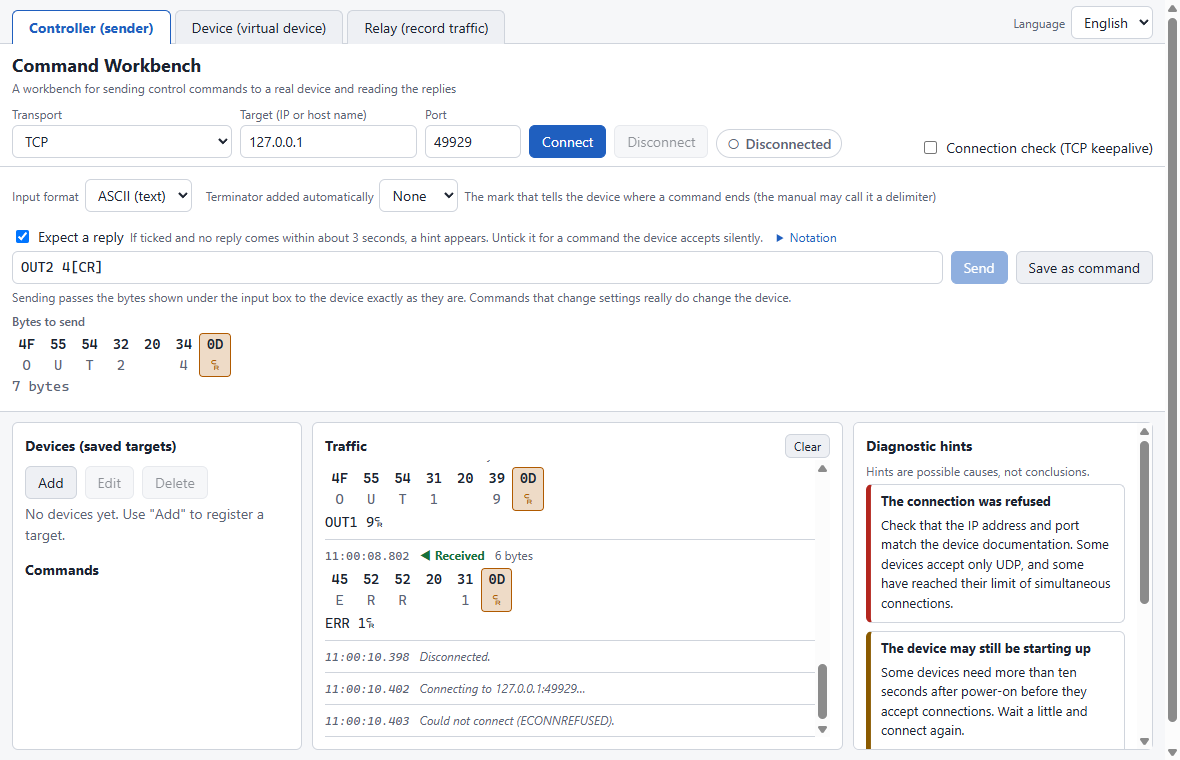
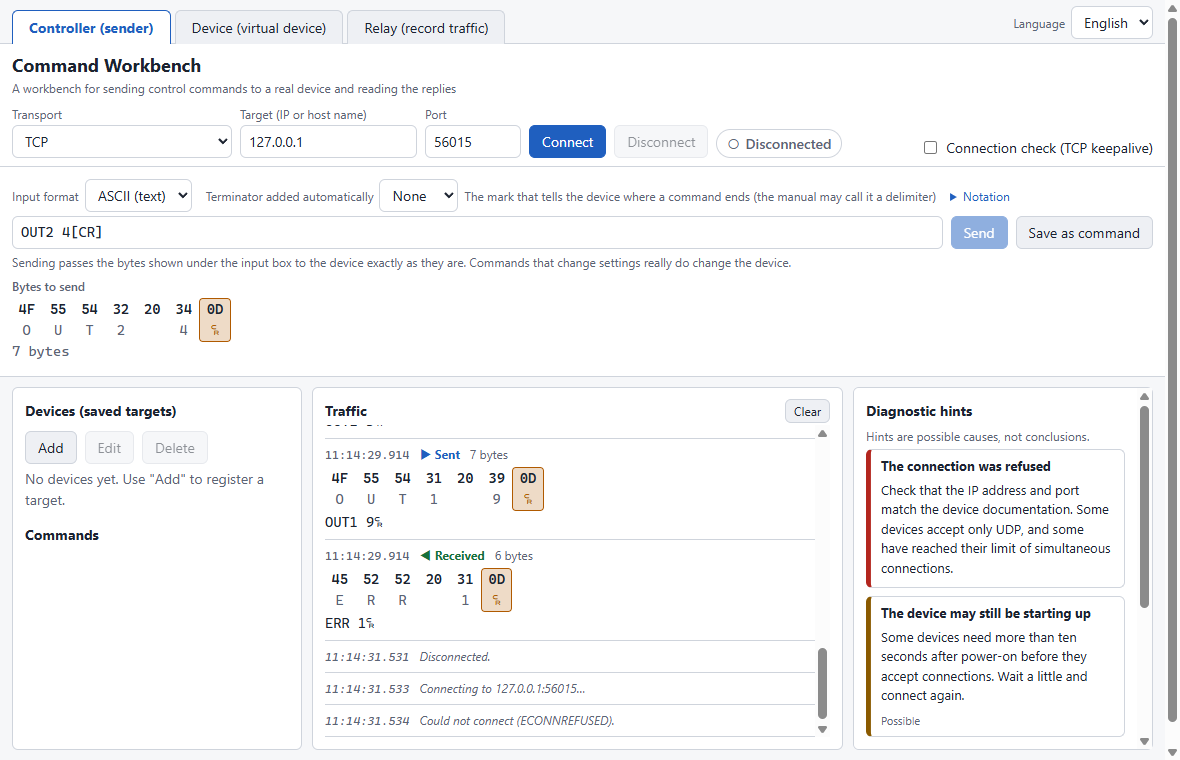
feat: drop the composer's reply checkbox; mark silent commands when saving them

diff --git a/manual/manual_JP.html b/manual/manual_JP.html
@@ -127,7 +127,7 @@
     </figure>
   </li>
   <li>
-    <p><strong>わざと壊してみます。</strong>機器役の<span class="ui">異常の注入</span>で、<span class="ui">応答を止める(ミュート)</span>にチェックを入れ、制御役からもう一度 <code>PWR?[CR]</code> を送ります。返答は来ません。<span class="ui">返答を待つ</span>にチェックが入っていれば、3秒ほどで、制御役の右の<span class="ui">診断ヒント</span>に「返答がありません」と、確かめることが出ます。実機が黙ってしまったときに何が起きるかを、ここで体験できます。確かめたらチェックを外します。</p>
+    <p><strong>わざと壊してみます。</strong>機器役の<span class="ui">異常の注入</span>で、<span class="ui">応答を止める(ミュート)</span>にチェックを入れ、制御役からもう一度 <code>PWR?[CR]</code> を送ります。返答は来ません。3秒ほどで、制御役の右の<span class="ui">診断ヒント</span>に「返答がありません」と、確かめることが出ます。実機が黙ってしまったときに何が起きるかを、ここで体験できます。確かめたらチェックを外します。</p>
   </li>
 </ol>
 
@@ -201,7 +201,7 @@
   <li>入力欄にコマンドを入れ、<span class="ui">送るバイト</span>を確かめます。</li>
   <li><span class="ui">送信</span>(または Enter)を押します。<strong>押した時点で、すぐ送られます。</strong>確認の画面は出ません。押す前に、送るバイトを確かめる習慣をつけてください。</li>
 </ol>
-<p><span class="ui">返答を待つ</span>にチェックが入っているときは、送って3秒ほど返答がなければ、ヒントが出ます。成功したときは何も返さない機器に送るときは、チェックを外します。</p>
+<p>送って3秒ほど返答がなければ、ヒントが出ます。成功したときは何も返さないコマンドは、<span class="ui">コマンドに保存</span>の画面で<span class="ui">このコマンドは返答がない</span>にチェックを入れて保存してください。保存したコマンドから送るときは、返答がなくてもヒントを出しません。</p>
 
 <h3>コマンドを保存して使い回す</h3>
 <p><span class="ui">コマンドに保存</span>を押し、名前を付けて保存します。保存したコマンドは、左の<span class="ui">コマンド集</span>に並び、<span class="ui">送信</span>を押すだけで送れます。コマンドは、機器ごとに、プログラムと同じフォルダの <code>workbench-commands.json</code> に保存します。</p>
@@ -512,6 +512,8 @@
   <dd>「接続」を作らず、データのまとまり(データグラム)を、一方的に送る方式です。届く保証はありません。</dd>
   <dt>データグラム</dt>
   <dd>UDP で、1回に送るデータのまとまりです。このソフトでは、1データグラムが1つのコマンドまたは返答です。</dd>
+  <dt>返答(レスポンス)</dt>
+  <dd>コマンドを送ったあとに、機器が返してくるデータです。「状態を教えて」への答えや、「受け付けました」の知らせなどがあります。</dd>
   <dt>終端文字</dt>
   <dd>コマンドの終わりを示す文字です。CR か LF、またはその両方(CR+LF)が使われます。機器ごとに決まっています。</dd>
   <dt>CR / LF</dt>

diff --git a/manual/manual.html b/manual/manual.html
@@ -127,7 +127,7 @@
     </figure>
   </li>
   <li>
-    <p><strong>Break it on purpose.</strong> Under <span class="ui">Fault injection</span> tick <span class="ui">Stop responding (mute)</span>, then send <code>PWR?[CR]</code> again from the Controller tab. No reply comes. If <span class="ui">Expect a reply</span> is ticked, after about three seconds <span class="ui">Diagnostic hints</span> on the right shows "No reply" and what to check. This is what it looks like when a real device goes quiet. Untick the box when you have seen it.</p>
+    <p><strong>Break it on purpose.</strong> Under <span class="ui">Fault injection</span> tick <span class="ui">Stop responding (mute)</span>, then send <code>PWR?[CR]</code> again from the Controller tab. No reply comes. After about three seconds <span class="ui">Diagnostic hints</span> on the right shows "No reply" and what to check. This is what it looks like when a real device goes quiet.</p>
   </li>
 </ol>
 
@@ -201,7 +201,7 @@
   <li>Type a command and check <span class="ui">Bytes to send</span>.</li>
   <li>Press <span class="ui">Send</span> (or Enter). <strong>It is sent immediately.</strong> There is no confirmation screen, so make a habit of checking the bytes before you press it.</li>
 </ol>
-<p>When <span class="ui">Expect a reply</span> is ticked and no reply comes within about three seconds, a hint appears. Untick it when you send to a device that stays silent on success.</p>
+<p>When no reply comes within about three seconds, a hint appears. For a command that the device accepts silently, tick <span class="ui">This command gets no reply</span> in the <span class="ui">Save as command</span> dialog. When you send from the saved command, no hint appears if there is no reply.</p>
 
 <h3>Saving commands for reuse</h3>
 <p>Press <span class="ui">Save as command</span> and give it a name. Saved commands appear under <span class="ui">Commands</span> on the left and can be sent with one press of <span class="ui">Send</span>. Commands are saved per device, in <code>workbench-commands.json</code> in the same folder as the program.</p>
@@ -512,6 +512,8 @@
   <dd>A way of sending separate chunks of data (datagrams) without making a connection. Delivery is not guaranteed.</dd>
   <dt>Datagram</dt>
   <dd>The chunk of data sent in one UDP send. In this tool, one datagram is one command or one reply.</dd>
+  <dt>Reply (response)</dt>
+  <dd>The data a device sends back after you send a command: an answer to "what is your status?", an "accepted" notice, and so on.</dd>
   <dt>Terminator</dt>
   <dd>The character that marks the end of a command: CR, LF or both (CR+LF). Each device has its own.</dd>
   <dt>CR / LF</dt>

diff --git a/src/renderer/app.js b/src/renderer/app.js
@@ -255,7 +255,7 @@
     $('command-text').value = existing ? existing.text : fromComposer.text;
     $('command-mode').value = existing ? existing.mode : fromComposer.mode;
     $('command-terminator').value = existing ? existing.appendTerminator : fromComposer.appendTerminator;
-    $('command-expects-reply').checked = existing ? existing.expectsReply !== false : fromComposer.expectsReply;
+    $('command-silent').checked = existing ? existing.expectsReply === false : false;
     $('command-error').textContent = '';
     $('command-dialog').showModal();
     $('command-name').select();
@@ -269,7 +269,7 @@
       text: $('command-text').value,
       mode: $('command-mode').value,
       appendTerminator: $('command-terminator').value,
-      expectsReply: $('command-expects-reply').checked,
+      expectsReply: !$('command-silent').checked,
     };
     const result = await commit(L.withCommand(S.data, device.name, S.editingCommand, command));
     if (!result.ok) {
@@ -384,7 +384,7 @@
 
   async function sendDirect() {
     if (S.sending) return;
-    const spec = { ...composerSpec(), expectsReply: $('expects-reply').checked };
+    const spec = { ...composerSpec(), expectsReply: true };
     if (spec.text === '') {
       $('input').focus();
       return;
@@ -549,7 +549,7 @@
     });
     $('send').addEventListener('click', sendDirect);
     $('save-command').addEventListener('click', () => {
-      const spec = { ...composerSpec(), expectsReply: $('expects-reply').checked };
+      const spec = { ...composerSpec(), expectsReply: true };
       if (spec.text === '') {
         $('input').focus();
         return;

diff --git a/src/renderer/index.html b/src/renderer/index.html
@@ -89,11 +89,6 @@
         </select>
         <span class="muted small-text" data-i18n="composer.terminator.help"></span>
       </label>
-      <label class="check">
-        <input id="expects-reply" type="checkbox" checked>
-        <span data-i18n="composer.expectsReply"></span>
-        <span class="muted small-text" data-i18n="composer.expectsReply.help"></span>
-      </label>
       <details class="notation">
         <summary data-i18n="composer.help.title"></summary>
         <p data-i18n="composer.help.body"></p>
@@ -405,8 +400,8 @@
           </select>
         </label>
       </div>
-      <label class="check"><input id="command-expects-reply" type="checkbox" checked> <span data-i18n="composer.expectsReply"></span></label>
-      <p class="muted small-text" data-i18n="composer.expectsReply.help"></p>
+      <label class="check"><input id="command-silent" type="checkbox"> <span data-i18n="command.silent"></span></label>
+      <p class="muted small-text" data-i18n="command.silent.help"></p>
       <p id="command-error" class="error" role="alert"></p>
       <div class="row buttons end">
         <button type="button" id="command-cancel" data-i18n="commands.cancel"></button>

diff --git a/src/renderer/i18n/ja.js b/src/renderer/i18n/ja.js
@@ -75,8 +75,8 @@
   'composer.terminator.cr': 'CR',
   'composer.terminator.lf': 'LF',
   'composer.terminator.crlf': 'CR+LF',
-  'composer.expectsReply': '返答を待つ',
-  'composer.expectsReply.help': 'チェックありで約3秒返答がないと、ヒントを出します。成功しても黙るコマンドでは外します。',
+  'command.silent': 'このコマンドは返答がない',
+  'command.silent.help': '成功したときは何も返さない機器のコマンドで、チェックを入れます。入れておくと、返答がなくてもヒントを出しません。',
   'composer.placeholder.text': '例: GETPWR[CR]   (終端は [CR] [LF] <CR> \\r などで書けます)',
   'composer.placeholder.hex': '例: 47 45 54 50 57 52 0D',
   'composer.send': '送信',

diff --git a/src/renderer/i18n/en.js b/src/renderer/i18n/en.js
@@ -75,8 +75,8 @@
   'composer.terminator.cr': 'CR',
   'composer.terminator.lf': 'LF',
   'composer.terminator.crlf': 'CR+LF',
-  'composer.expectsReply': 'Expect a reply',
-  'composer.expectsReply.help': 'If ticked and no reply comes within about 3 seconds, a hint appears. Untick it for a command the device accepts silently.',
+  'command.silent': 'This command gets no reply',
+  'command.silent.help': 'Tick this for a command the device accepts silently. No "no reply" hint will appear for it.',
   'composer.placeholder.text': 'e.g. GETPWR[CR]   (write terminators as [CR] [LF] <CR> \\r ...)',
   'composer.placeholder.hex': 'e.g. 47 45 54 50 57 52 0D',
   'composer.send': 'Send',
